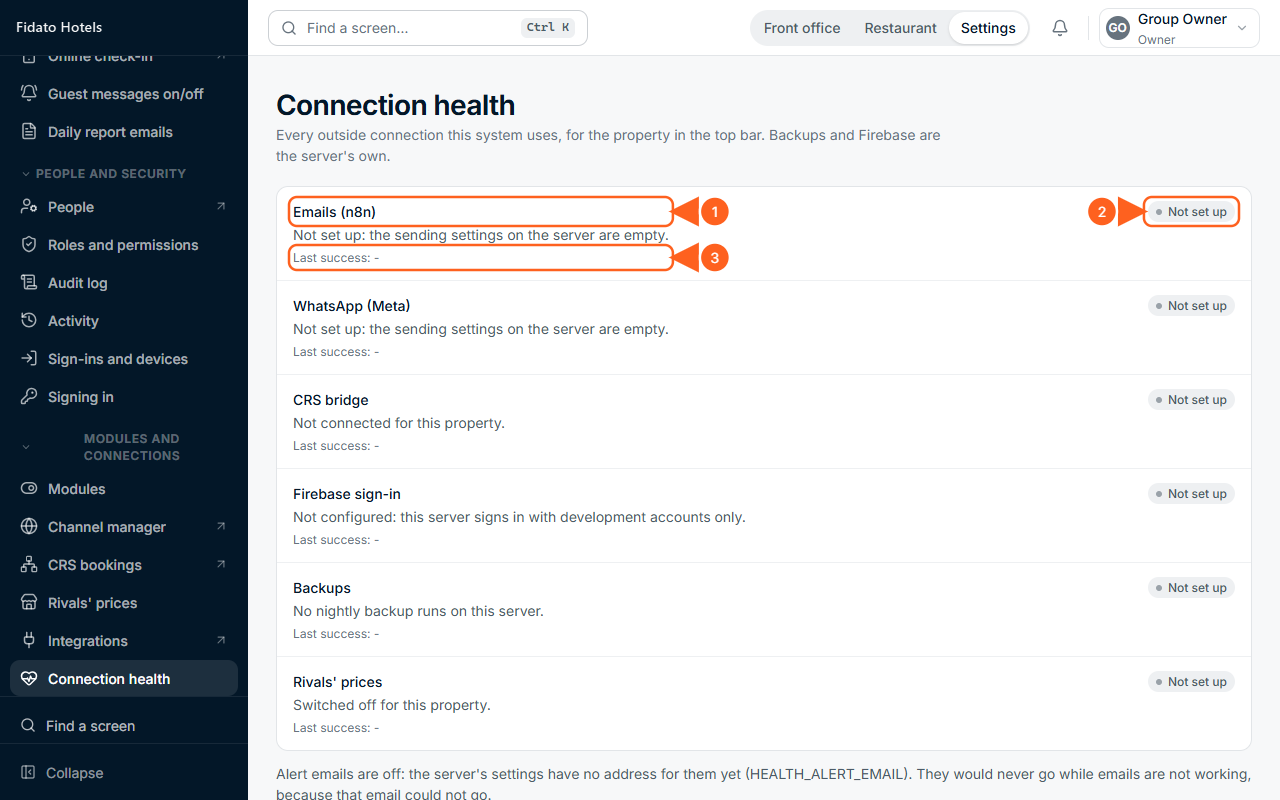
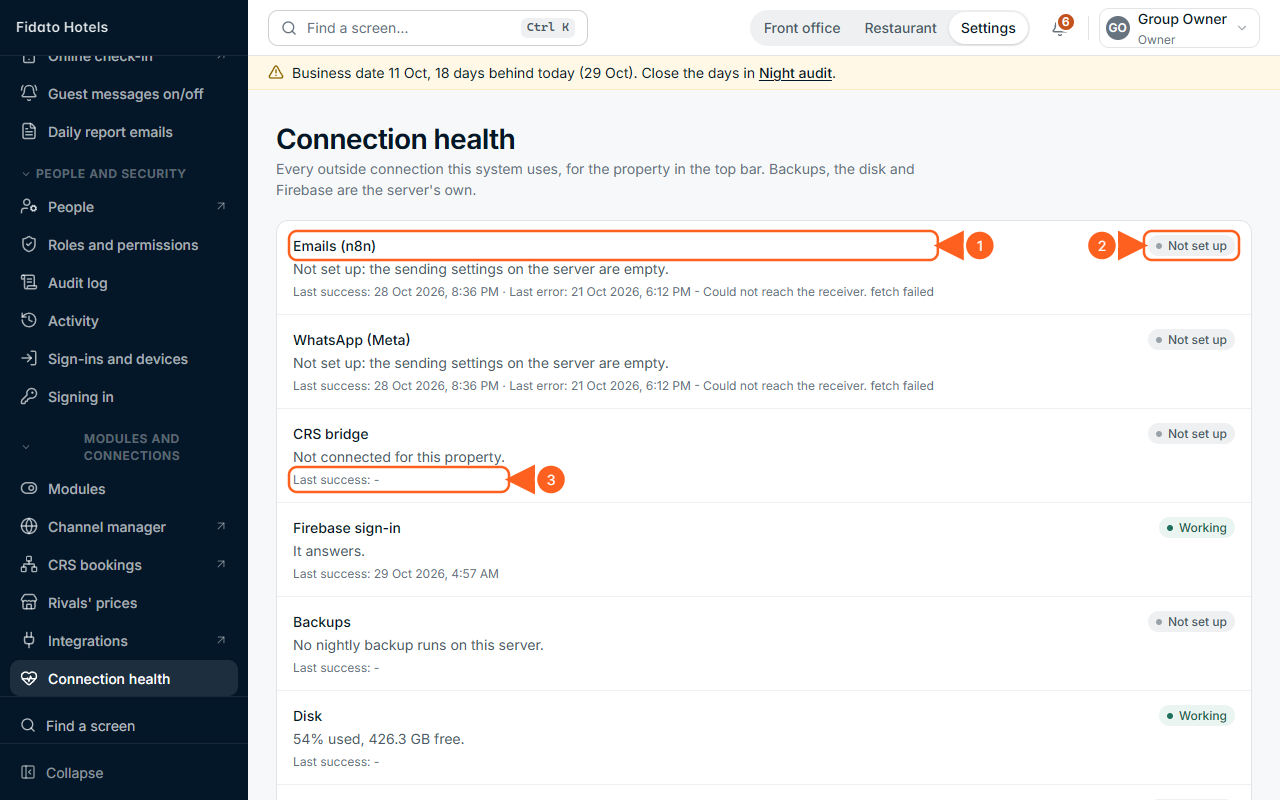
Manual: Connection health retaken with the Disk row (A17-49, B5-01), the 'taken before' notes gone

diff --git a/docs/manual/manual.html b/docs/manual/manual.html
@@ -10796,7 +10796,6 @@ figure.shot.phone img { max-width: 72mm; }
     <li><span class="ui">Disk</span> says how full the server's disk is and how much is free. Needs a look from 80% used; Not working from 90%, because the database stops when the disk is full. Tell whoever looks after the server at once.</li>
     <li><span class="ui">Backups</span> turns Not working when last night's backup failed, when none has run for 26 hours, or, once copies have been going to the off-site bucket, when none has gone for 26 hours. Once restore to any minute is switched on, also when the database's change journal or its weekly base copy is not reaching the bucket. Also when the nightly copy of the uploaded files (bill photos, receipts) or n8n's own nightly copy failed or has not run for 26 hours; Needs a look while either has no bucket link, and the line says which stays on the server's disk only.</li>
   </ul>
-  <p class="muted">The picture above was taken before the Disk row was added; the page now shows it between Backups and Rivals' prices.</p>
 
   <div class="box why">
     <h4>Why it works this way</h4>
@@ -11957,7 +11956,7 @@ figure.shot.phone img { max-width: 72mm; }
       <tr><td>CRS bridge</td><td>The last read failed, or nothing has been read for 30 minutes (the reader runs every five).</td></tr>
       <tr><td>Firebase sign-in</td><td>It did not answer.</td></tr>
       <tr><td>Backups</td><td>The last backup failed, or there has been none for 26 hours; or, once copies have gone to the off-site bucket, none has for 26 hours <span class="d">D27-373</span>; or, with restore to any minute on, the change journal or the weekly base copy is not reaching the bucket; or the nightly copy of the uploaded files, or n8n's own nightly copy, failed or has not run for 26 hours <span class="d">D27-377</span>. Amber when backed up but on the server's disk only, all of it or the uploaded files or n8n's copy.</td></tr>
-      <tr><td>Disk</td><td>The server's disk is 90% used or more: the database stops when it is full. Amber from 80% <span class="d">D27-373</span>. The picture above was taken before this row was added.</td></tr>
+      <tr><td>Disk</td><td>The server's disk is 90% used or more: the database stops when it is full. Amber from 80% <span class="d">D27-373</span>.</td></tr>
       <tr><td>Rivals' prices</td><td>Never red; amber when switched on and nothing kept yet.</td></tr>
     </tbody>
   </table>

diff --git a/docs/manual/chapters/b5.html b/docs/manual/chapters/b5.html
@@ -209,7 +209,7 @@
       <tr><td>CRS bridge</td><td>The last read failed, or nothing has been read for 30 minutes (the reader runs every five).</td></tr>
       <tr><td>Firebase sign-in</td><td>It did not answer.</td></tr>
       <tr><td>Backups</td><td>The last backup failed, or there has been none for 26 hours; or, once copies have gone to the off-site bucket, none has for 26 hours <span class="d">D27-373</span>; or, with restore to any minute on, the change journal or the weekly base copy is not reaching the bucket; or the nightly copy of the uploaded files, or n8n's own nightly copy, failed or has not run for 26 hours <span class="d">D27-377</span>. Amber when backed up but on the server's disk only, all of it or the uploaded files or n8n's copy.</td></tr>
-      <tr><td>Disk</td><td>The server's disk is 90% used or more: the database stops when it is full. Amber from 80% <span class="d">D27-373</span>. The picture above was taken before this row was added.</td></tr>
+      <tr><td>Disk</td><td>The server's disk is 90% used or more: the database stops when it is full. Amber from 80% <span class="d">D27-373</span>.</td></tr>
       <tr><td>Rivals' prices</td><td>Never red; amber when switched on and nothing kept yet.</td></tr>
     </tbody>
   </table>

diff --git a/docs/manual/chapters/a17.html b/docs/manual/chapters/a17.html
@@ -1082,7 +1082,6 @@
     <li><span class="ui">Disk</span> says how full the server's disk is and how much is free. Needs a look from 80% used; Not working from 90%, because the database stops when the disk is full. Tell whoever looks after the server at once.</li>
     <li><span class="ui">Backups</span> turns Not working when last night's backup failed, when none has run for 26 hours, or, once copies have been going to the off-site bucket, when none has gone for 26 hours. Once restore to any minute is switched on, also when the database's change journal or its weekly base copy is not reaching the bucket. Also when the nightly copy of the uploaded files (bill photos, receipts) or n8n's own nightly copy failed or has not run for 26 hours; Needs a look while either has no bucket link, and the line says which stays on the server's disk only.</li>
   </ul>
-  <p class="muted">The picture above was taken before the Disk row was added; the page now shows it between Backups and Rivals' prices.</p>
 
   <div class="box why">
     <h4>Why it works this way</h4>
